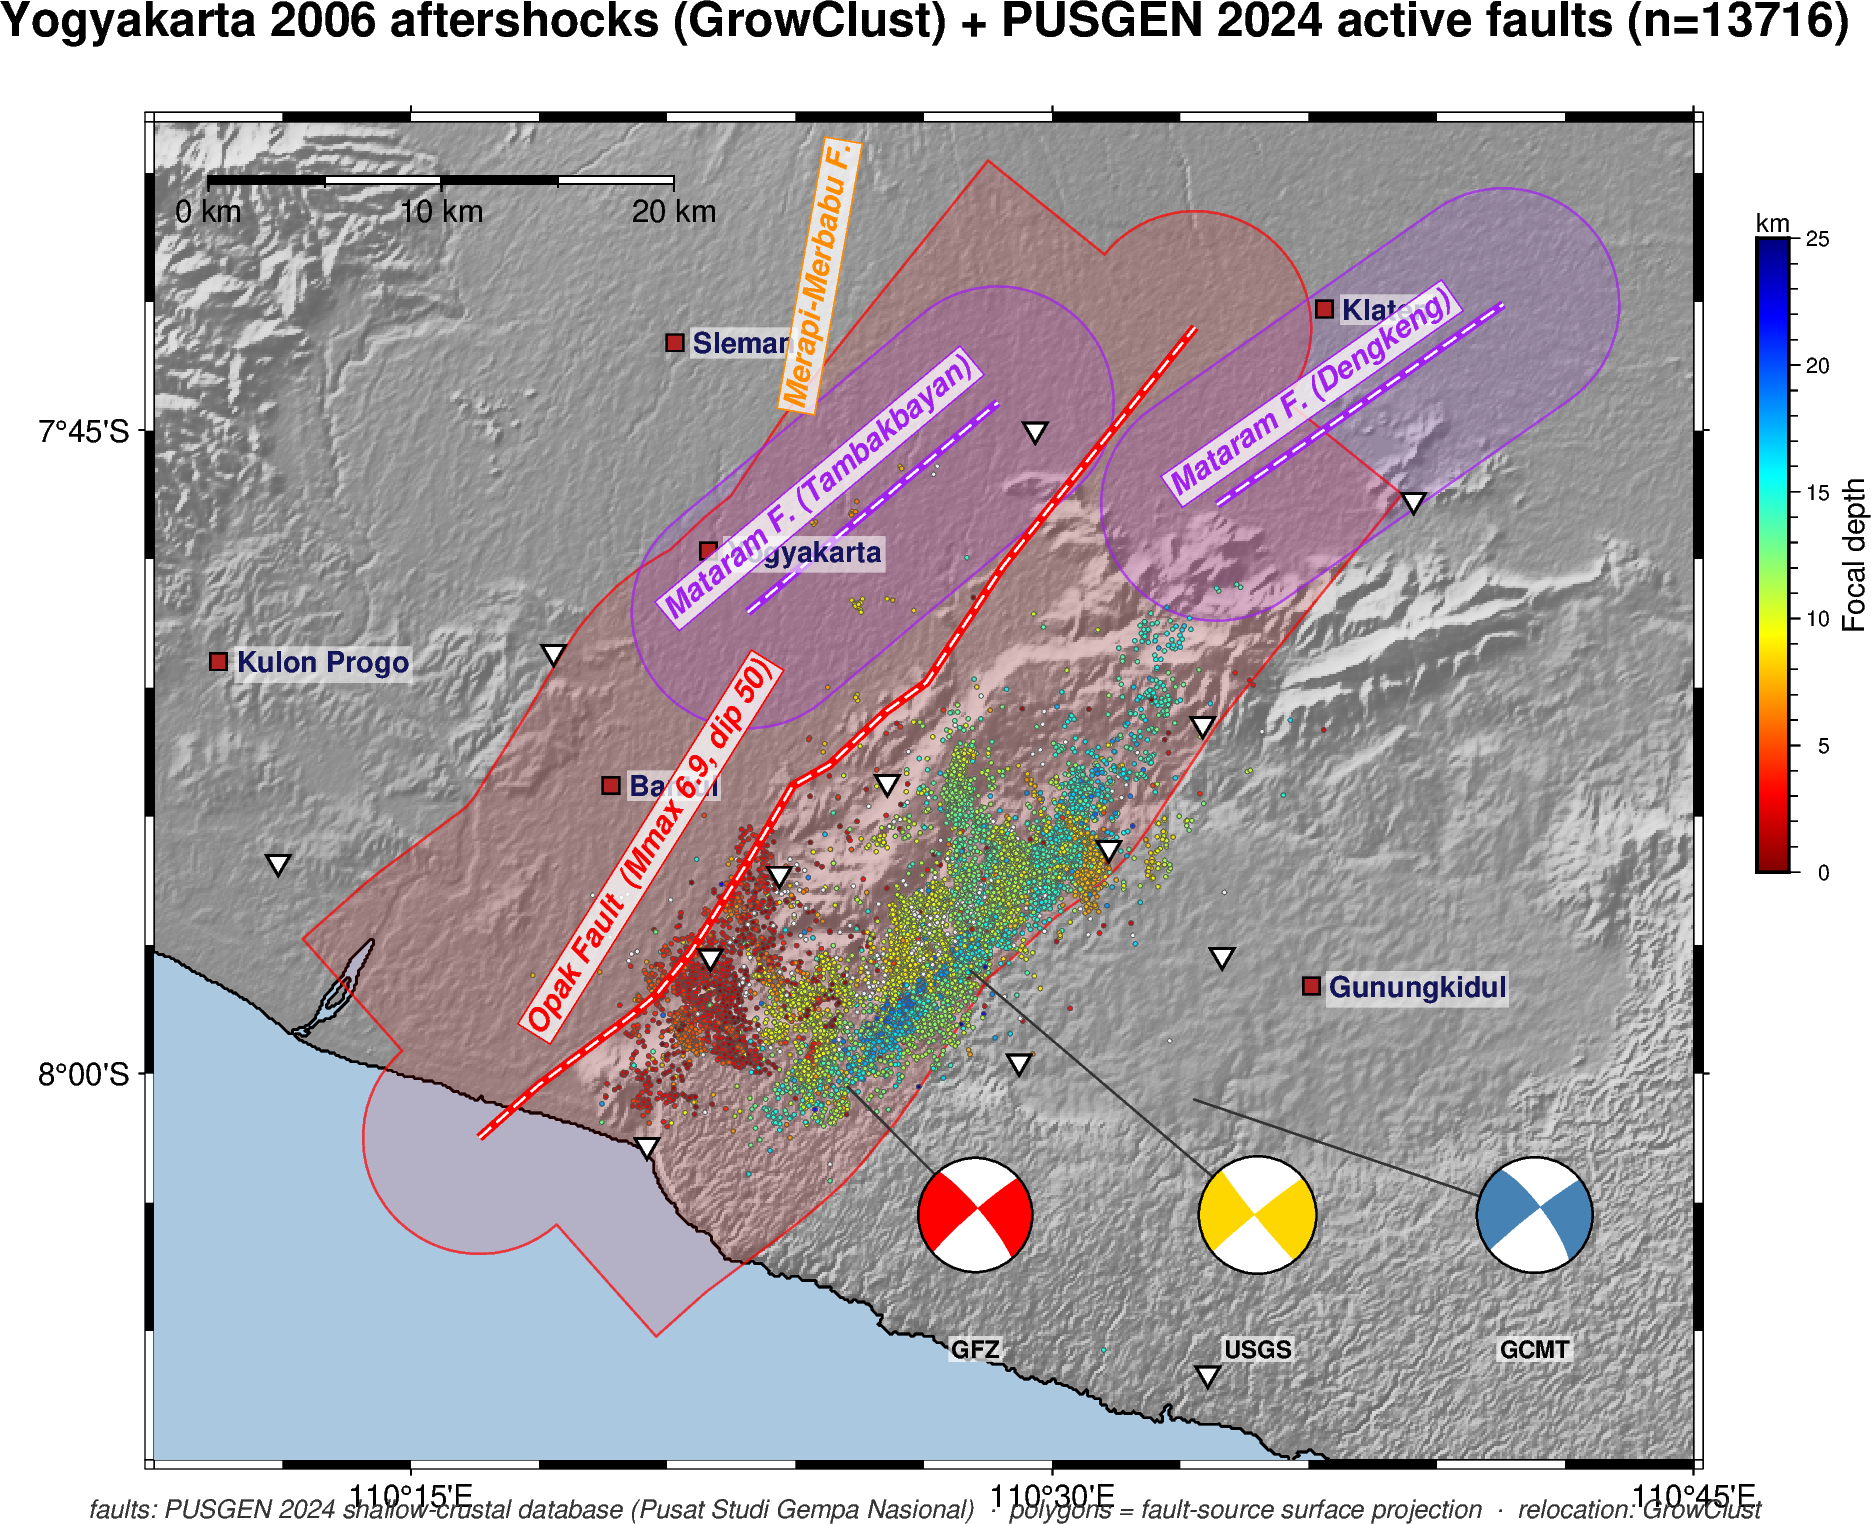
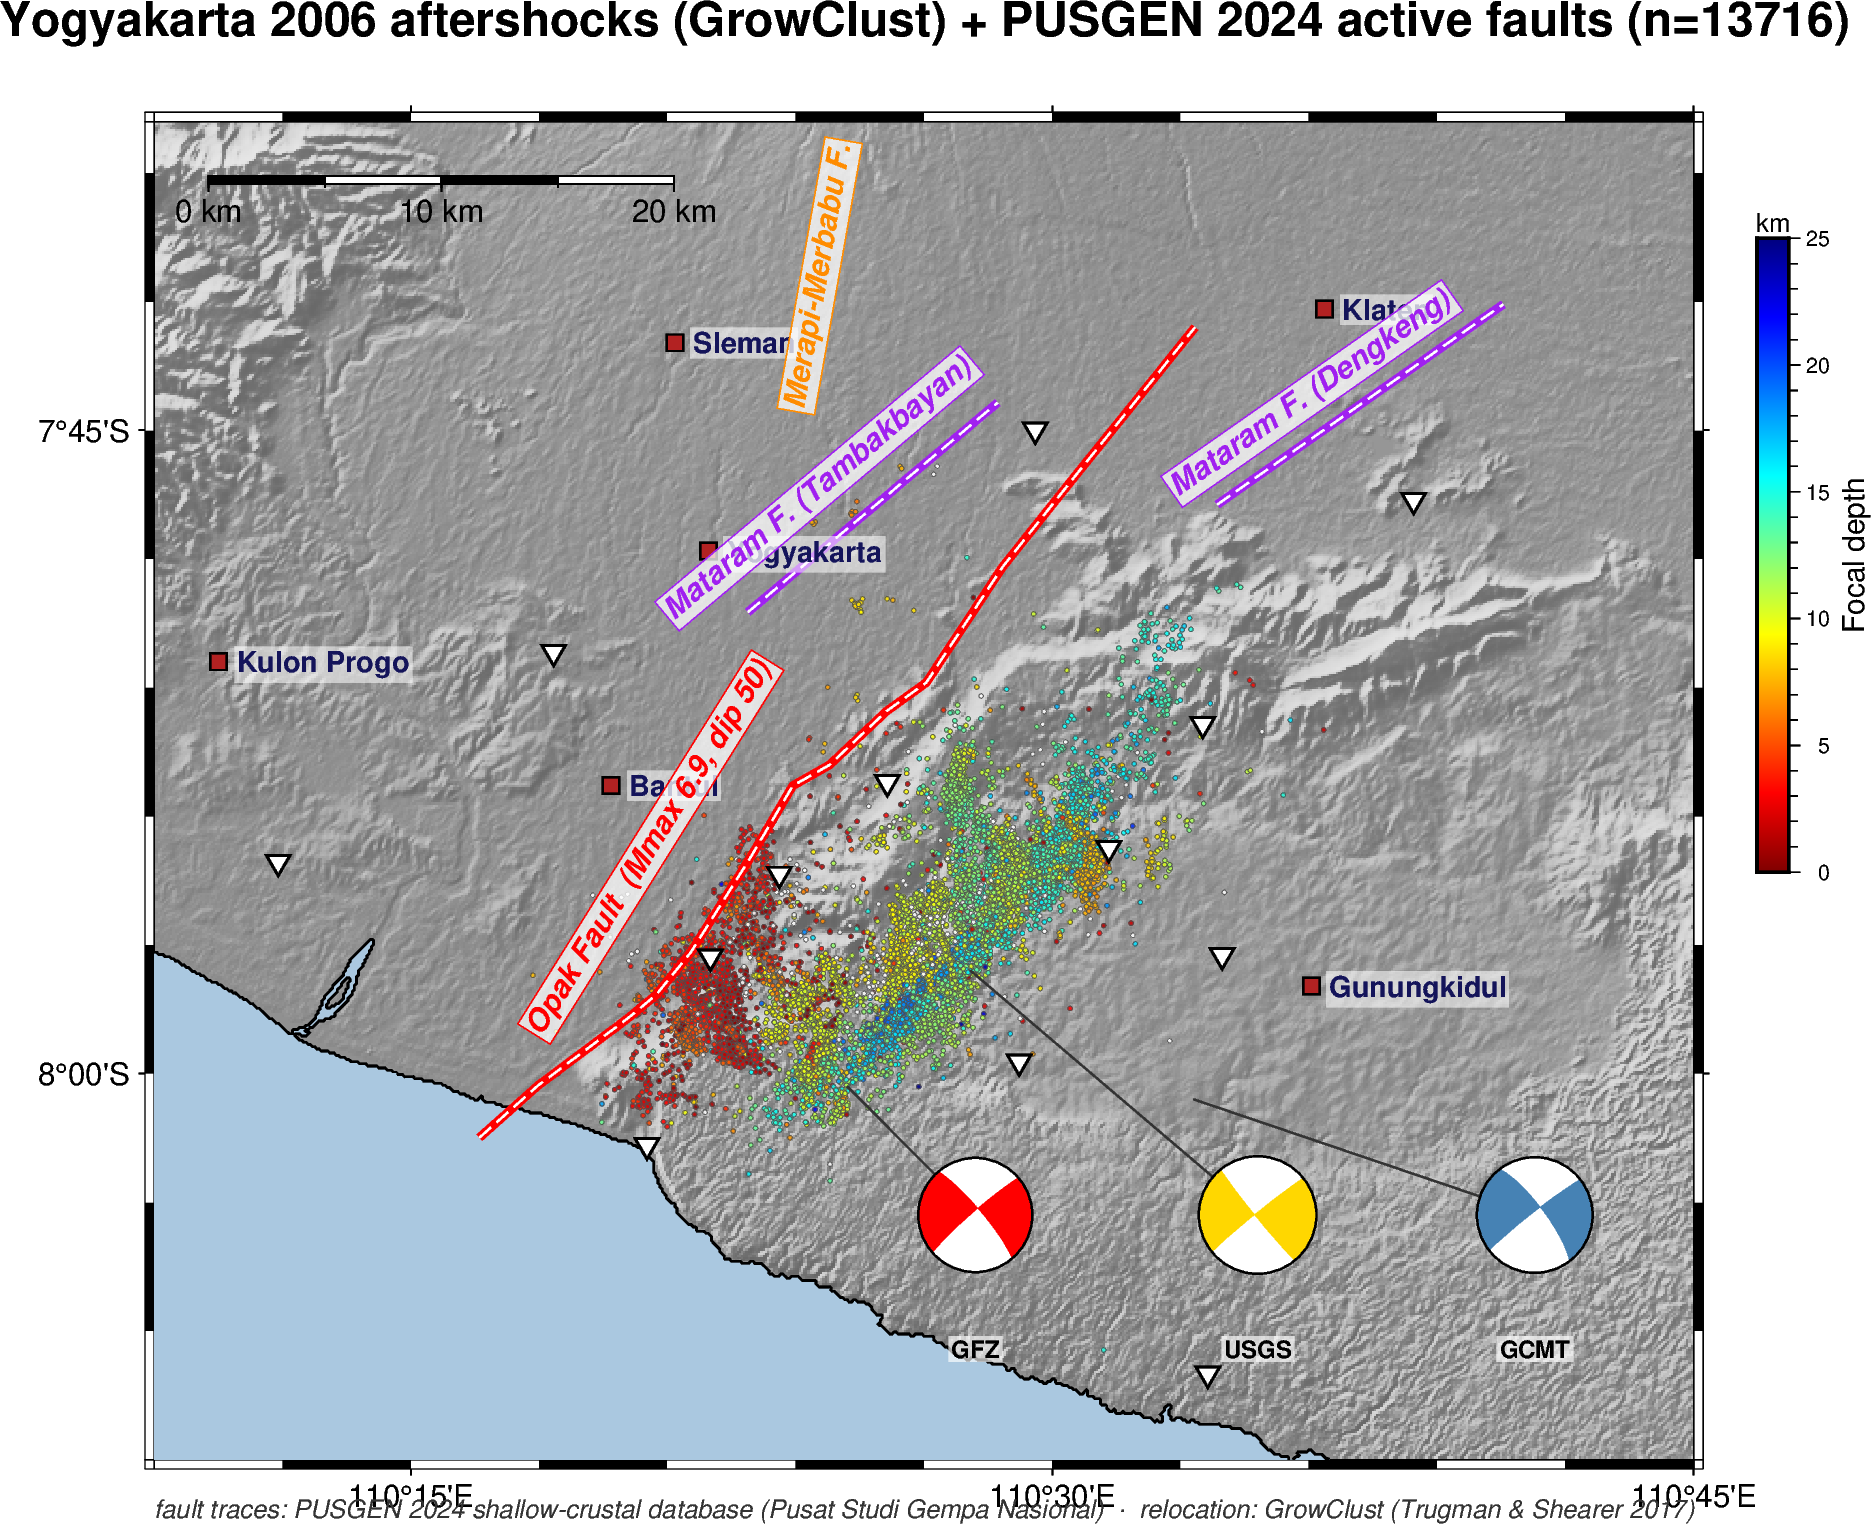
PUSGEN map: show fault traces only (remove source polygons)

diff --git a/eqt/scripts/plot_pusgen_map.py b/eqt/scripts/plot_pusgen_map.py
@@ -41,7 +41,6 @@ def load_xn():
 
 def main():
     tr = gpd.read_file(f"{PUS}/pusgen_traces.geojson")
-    pg = gpd.read_file(f"{PUS}/pusgen_polygons.geojson")
     e  = pd.read_csv(f"{ROOT}/full/catalog_growclust.csv").rename(
             columns={"lat":"latitude","lon":"longitude","dep":"depth"})
 
@@ -54,12 +53,6 @@ def main():
                         f"(n={len(e)})", "xa0.25f0.05","ya0.25f0.05"])
     fig.coast(region=REGION, projection=PROJ, water="170/200/224",
               shorelines="0.7p,black", resolution="f")
-
-    # PUSGEN fault-source polygons (surface projection of the fault plane, r=5 km buffer)
-    for _,row in pg.iterrows():
-        col = FINFO.get(row["Source_ID"], ("", "gray", 0,0,0))[1]
-        fig.plot(data=gpd.GeoDataFrame(geometry=[row.geometry], crs=4326),
-                 fill=f"{col}@88", pen=f"0.6p,{col}@30")
 
     # aftershocks coloured by focal depth
     pygmt.makecpt(cmap="jet", series=[0,25], reverse=True)
@@ -96,8 +89,8 @@ def main():
     fig.colorbar(cmap=True, frame=["x+lFocal depth","y+lkm"], position="JMR+o0.7c/2.6c+w7c/0.35c")
     fig.basemap(map_scale="jTL+w20k+o0.6c/0.6c+f+u")
     fig.text(position="BC",
-             text="faults: PUSGEN 2024 shallow-crustal database (Pusat Studi Gempa Nasional)  \\267  "
-                  "polygons = fault-source surface projection  \\267  relocation: GrowClust",
+             text="fault traces: PUSGEN 2024 shallow-crustal database (Pusat Studi Gempa Nasional)  \\267  "
+                  "relocation: GrowClust (Trugman & Shearer 2017)",
              font="8p,Helvetica-Oblique,gray20", offset="0c/-0.65c", no_clip=True)
     out=f"{ROOT}/figures/growclust_pusgen_map.png"
     fig.savefig(out,dpi=230); print(f"n={len(e)}; faults={len(tr)}; wrote {out}")
